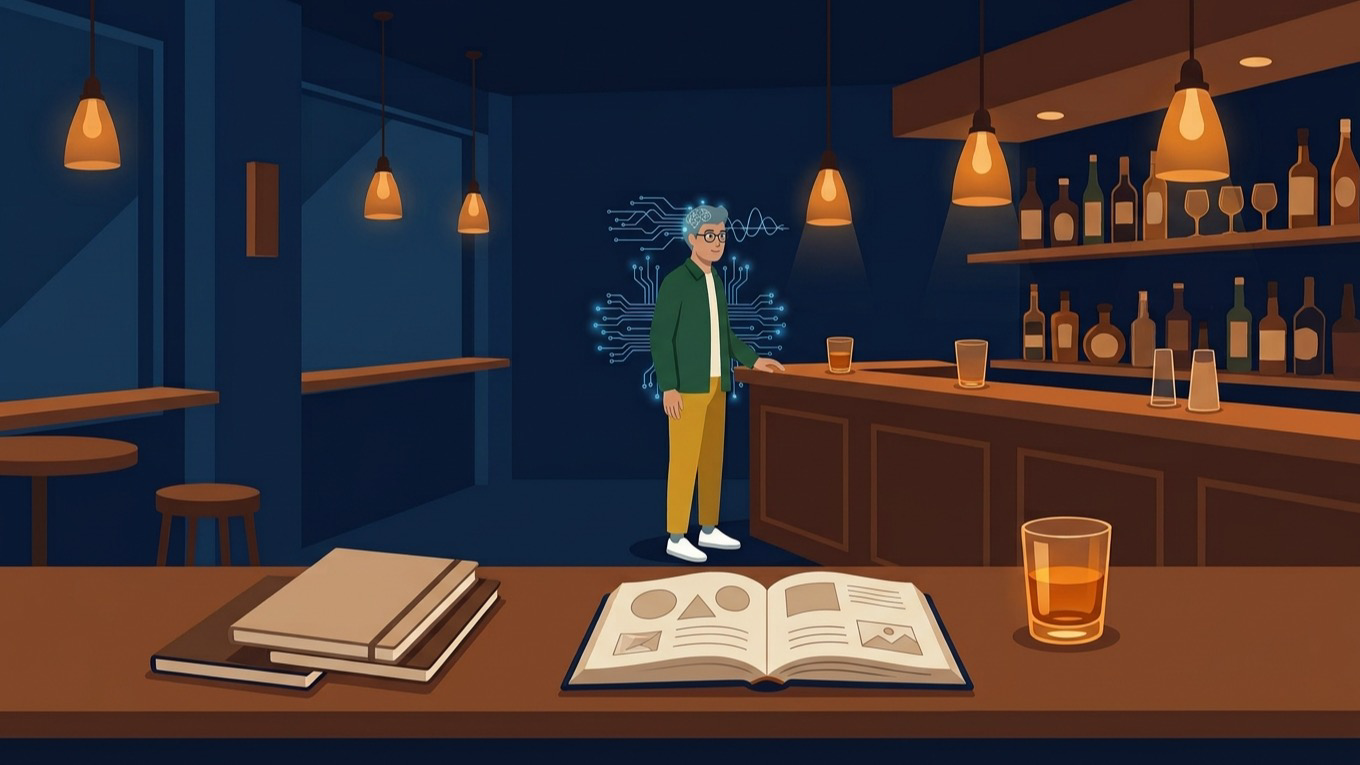
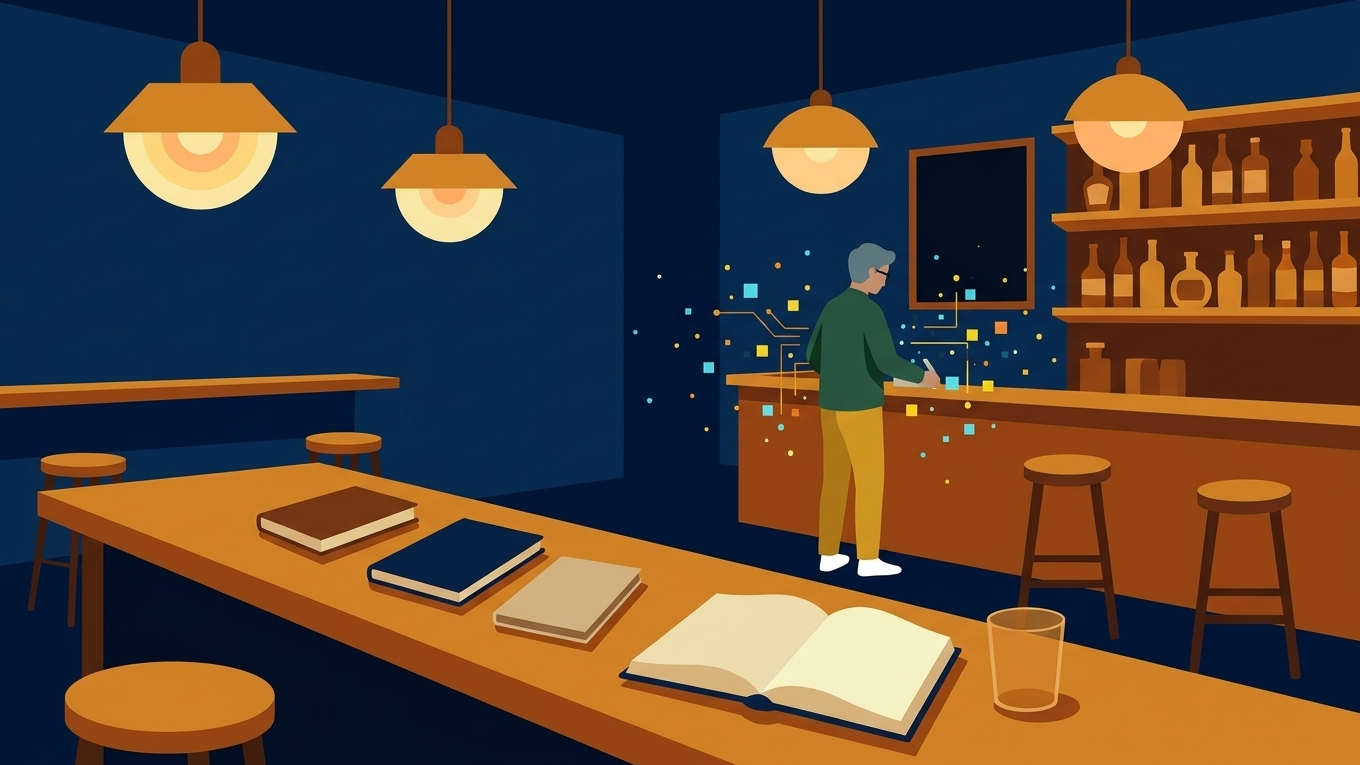
見出し画像2枚（2冊目のマガジン・1冊目の第5章）を新しい画像に差し替え

diff --git a/books/hitori-de-mise/build/report.md b/books/hitori-de-mise/build/report.md
@@ -93,6 +93,10 @@
 
 「この本は無料で配っています。」を「この本は、PDFとnoteとGoogle Playで無料で読めます（Kindleだけは、ストアの決まりで最低価格を付けています）。」に変え、原稿・EPUB・PDF・note（おわりに）を作り直した。原稿・EPUB・PDF・note 8本の旧文は0件（新文は PDF・note に各1件）。epubcheck error 0／warning 0。表紙と書誌の題名（「1人で店を回す、その横にAIが来た」）は変えていない。2冊目の note「はじめに」の下書きが同じ文になっていることも再確認した。
 
+## 見出し画像2枚の差し替え（2026-10-28）
+
+代表の「差し替えて」を受けて、前回の画像を残していた2枚を差し替えた（候補は代表の承認のもと、各2回まで作り直し）。A・Bの指定が無かったため、第5章は B（輪郭線の画素 0.20%。A は 0.43%で基準に近いため）を選んだ（もう一方も `note-headers/` に残してあり、入れ替えられる）。差し替え前の画像は `note-headers/_before_swap/`。輪郭線の検査は新方式（`scripts/outline-check.py`：色の境目に、周りの2色のどちらとも違う濃い色が細く挟まっている画素が0.5%未満）で、17枚すべて合格（OCR の検出も0）。下書き・マガジンの設定は、2冊目 8/8、1冊目 9/9。
+
 ## マネタイズ原則への影響
 
 獲得：1冊目の本からも `?src=book1`／`?via=book1` で、2冊目（`?src=book`／`?via=book`）と分けて数えられる。note 経由は `?src=note1`／`?via=note1`。転換：本の末尾の出口とクーポン BOOK で来店・Agenda 利用を測る。費用：見出し画像の生成約240円のみ。

diff --git a/books/uchi-no-mise/build/report.md b/books/uchi-no-mise/build/report.md
@@ -119,6 +119,10 @@
 - 結果：OCR 検出0（16:9 と 1280×670 の全画像）、輪郭線の検査は全画像合格、公開状態の記事0。
 - 費用（概算）：この回の生成は約23回（出力 約22k トークン×2冊分）。公表単価で換算して2冊分で約 420 円（上限600円内）。
 
+## 見出し画像2枚の差し替え（2026-10-28）
+
+代表の「差し替えて」を受けて、前回の画像を残していた2枚を差し替えた（候補は代表の承認のもと、各2回まで作り直し）。A・Bの指定が無かったため、マガジンは A（輪郭線の画素 0.04%）を選んだ（もう一方も `note-headers/` に残してあり、入れ替えられる）。差し替え前の画像は `note-headers/_before_swap/`。輪郭線の検査は新方式（`scripts/outline-check.py`：色の境目に、周りの2色のどちらとも違う濃い色が細く挟まっている画素が0.5%未満）で、17枚すべて合格（OCR の検出も0）。下書き・マガジンの設定は、2冊目 8/8、1冊目 9/9。
+
 ## 原稿と図の扱い
 
 - 図1-7：キャプション「1名・4名・6名の比較」に合わせ `fig1-7b_compare.png` を採用（代表裁定）。
